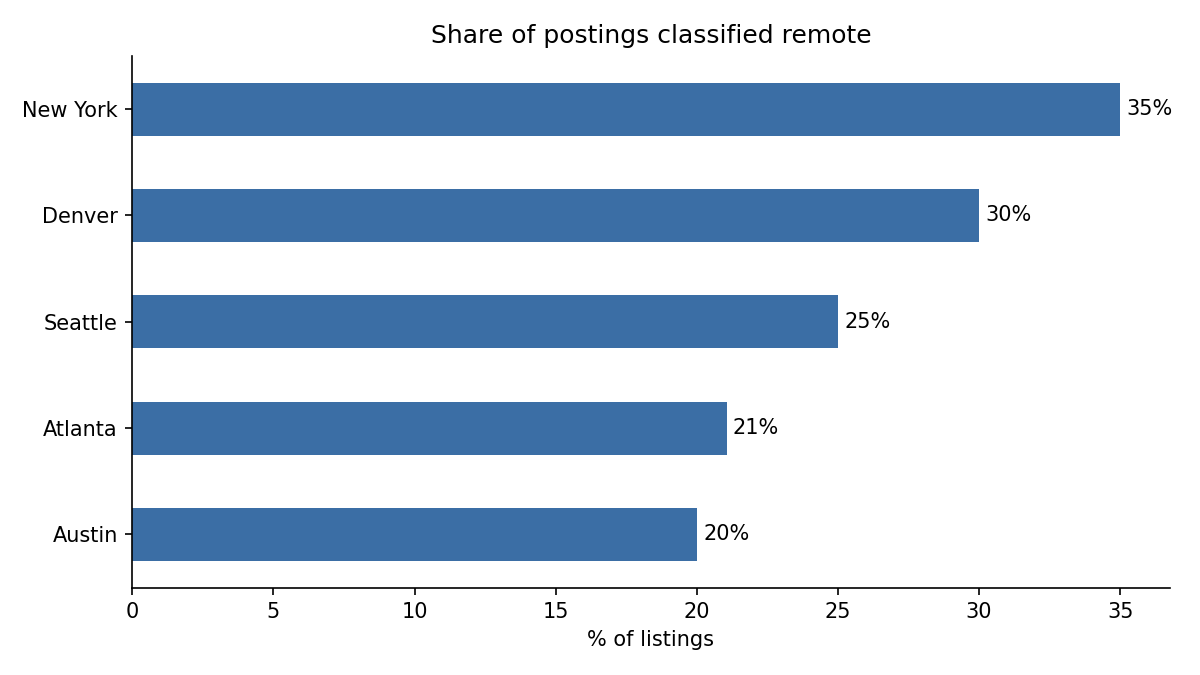
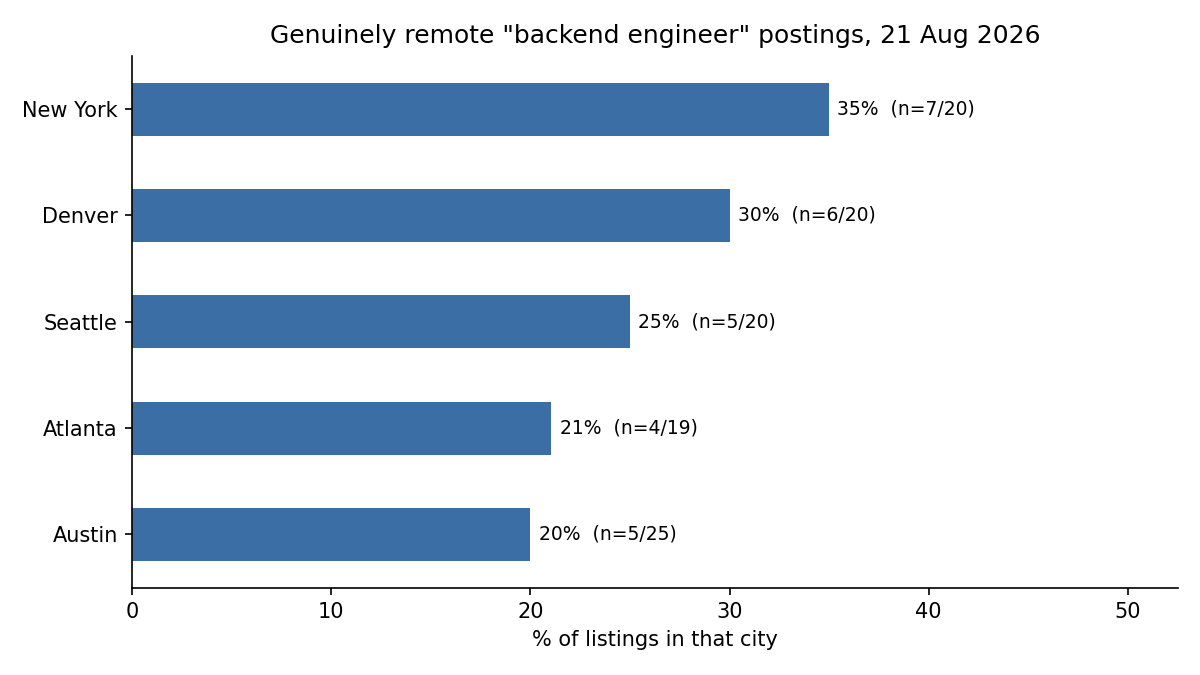
Sync tracker to two-pass salary parser and labeled remote chart.

diff --git a/tracker.py b/tracker.py
@@ -42,6 +42,7 @@ CREATE TABLE IF NOT EXISTS snapshots (
     posted_precision TEXT,
     work_mode       TEXT,
     schedule        TEXT,
+    salary_raw      TEXT,
     salary_min      REAL,
     salary_max      REAL,
     salary_source   TEXT,
@@ -64,6 +65,7 @@ UNIT_DELTA = {
     "month": lambda n: timedelta(days=30 * n),
 }
 
+TAG_RE = re.compile(r"<[^>]+>")
 REMOTE_LOC = re.compile(r"\b(remote|anywhere|work from home|telecommute)\b", re.I)
 HYBRID_HINT = re.compile(
     r"\b(hybrid|"
@@ -73,12 +75,18 @@ HYBRID_HINT = re.compile(
 )
 ONSITE_HINT = re.compile(r"\b(on-?site|in[- ]office|in[- ]person)\b", re.I)
 
-MONEY = r"\$\s?(\d{1,3}(?:,\d{3})*(?:\.\d+)?)\s*([KkMm])?"
+AMOUNT = r"(\d{1,3}(?:,\d{3})*(?:\.\d+)?)\s*([KkMm])?"
 SEPARATOR = r"\s*(?:-|to|\u2013|\u2014)\s*"
 PERIOD = r"(?:\s*(?:per|a|an|/)\s*(hour|hr|year|yr|month|mo|week|wk))?"
 
-SALARY_RANGE = re.compile(MONEY + SEPARATOR + MONEY + PERIOD, re.I)
-SALARY_SINGLE = re.compile(MONEY + PERIOD, re.I)
+FIELD_RANGE = re.compile(r"\$?\s?" + AMOUNT + SEPARATOR + r"\$?\s?" + AMOUNT + PERIOD, re.I)
+FIELD_SINGLE = re.compile(r"\$?\s?" + AMOUNT + PERIOD, re.I)
+DESC_RANGE = re.compile(r"\$\s?" + AMOUNT + SEPARATOR + r"\$?\s?" + AMOUNT + PERIOD, re.I)
+DESC_SINGLE = re.compile(r"\$\s?" + AMOUNT + PERIOD, re.I)
+NON_USD = re.compile(
+    r"[\u00a3\u20ac\u00a5\u20b9]|\b(?:EUR|GBP|CAD|AUD|INR)\b|\b(?:C|A|CA|AU|NZ)\$",
+    re.I,
+)
 
 ANNUALIZE = {
     "hour": 2080,
@@ -98,10 +106,7 @@ def api_key() -> str:
     """Read SEARCHAPI_KEY only when a live request is about to go out."""
     key = os.environ.get("SEARCHAPI_KEY")
     if not key:
-        raise SystemExit(
-            "SEARCHAPI_KEY is not set. In PowerShell: "
-            '$env:SEARCHAPI_KEY = "your_key_here"'
-        )
+        raise SystemExit("Set SEARCHAPI_KEY before fetching.")
     return key
 
 
@@ -110,6 +115,7 @@ def fetch_city(
     location: str,
     max_pages: int = 2,
     pause: float = 1.5,
+    max_retries: int = 2,
 ) -> tuple[list[dict], str | None]:
     """Fetch job listings for one query/location pair. Returns (jobs, location_used)."""
     jobs: list[dict] = []
@@ -137,12 +143,12 @@ def fetch_city(
             break
 
         if resp.status_code == 429:
-            if retries >= 2:
-                print(f"  [{location}] rate limited after retries, giving up")
+            if retries >= max_retries:
+                print(f"  [{location}] still limited after {max_retries} retries, stopping")
                 break
-            print(f"  [{location}] rate limited, backing off 60s")
-            time.sleep(60)
             retries += 1
+            print(f"  [{location}] rate limited, retry {retries} in 60s")
+            time.sleep(60)
             continue
         if resp.status_code != 200:
             print(
@@ -199,7 +205,7 @@ def classify_work_mode(job: dict) -> str:
     """Return one of: remote, hybrid, onsite, unknown."""
     flagged = job.get("detected_extensions", {}).get("work_from_home")
     location = job.get("location") or ""
-    head = (job.get("description") or "")[:2000]
+    head = TAG_RE.sub(" ", job.get("description") or "")[:2000]
 
     location_says_remote = bool(REMOTE_LOC.search(location))
     hybrid = bool(HYBRID_HINT.search(head))
@@ -223,25 +229,18 @@ def _to_number(amount: str, suffix: str | None) -> float:
     return value
 
 
-def parse_salary(job: dict) -> dict:
-    """Extract an annualized salary range. Prefers the structured field."""
-    text = job.get("detected_extensions", {}).get("salary")
-    source = "detected_extensions"
-    if not text:
-        text = (job.get("description") or "")[:4000]
-        source = "description"
-    if not text:
-        return {"salary_min": None, "salary_max": None, "salary_source": None}
-
-    match = SALARY_RANGE.search(text)
+def _extract(
+    text: str, rng: re.Pattern, single: re.Pattern
+) -> tuple[float, float] | None:
+    match = rng.search(text)
     if match:
         low = _to_number(match.group(1), match.group(2))
         high = _to_number(match.group(3), match.group(4))
         period = (match.group(5) or "year").lower()
     else:
-        match = SALARY_SINGLE.search(text)
+        match = single.search(text)
         if not match:
-            return {"salary_min": None, "salary_max": None, "salary_source": None}
+            return None
         low = high = _to_number(match.group(1), match.group(2))
         period = (match.group(3) or "year").lower()
 
@@ -250,9 +249,33 @@ def parse_salary(job: dict) -> dict:
     if low > high:
         low, high = high, low
     if not (10_000 <= low <= 2_000_000):
-        return {"salary_min": None, "salary_max": None, "salary_source": None}
+        return None
+    return low, high
 
-    return {"salary_min": low, "salary_max": high, "salary_source": source}
+
+def parse_salary(job: dict) -> dict:
+    """Annualized salary range from the structured field, falling back to the description."""
+    field = job.get("detected_extensions", {}).get("salary")
+    if field and not NON_USD.search(field):
+        found = _extract(field, FIELD_RANGE, FIELD_SINGLE)
+        if found:
+            return {
+                "salary_min": found[0],
+                "salary_max": found[1],
+                "salary_source": "detected_extensions",
+            }
+
+    description = TAG_RE.sub(" ", job.get("description") or "")[:4000]
+    if description:
+        found = _extract(description, DESC_RANGE, DESC_SINGLE)
+        if found:
+            return {
+                "salary_min": found[0],
+                "salary_max": found[1],
+                "salary_source": "description",
+            }
+
+    return {"salary_min": None, "salary_max": None, "salary_source": None}
 
 
 def job_key(job: dict) -> str:
@@ -268,6 +291,15 @@ def job_key(job: dict) -> str:
         ]
     )
     return "h:" + hashlib.sha1(seed.encode()).hexdigest()[:16]
+
+
+def migrate(conn: sqlite3.Connection) -> None:
+    """CREATE TABLE IF NOT EXISTS skips existing tables, so add columns explicitly."""
+    existing = {row[1] for row in conn.execute("PRAGMA table_info(snapshots)")}
+    for column, decl in [("salary_raw", "TEXT")]:
+        if column not in existing:
+            conn.execute(f"ALTER TABLE snapshots ADD COLUMN {column} {decl}")
+    conn.commit()
 
 
 def save_snapshot(conn: sqlite3.Connection, rows: list[dict]) -> int:
@@ -313,6 +345,7 @@ def normalize_jobs(
             "posted_precision": p[1],
             "work_mode": classify_work_mode(j),
             "schedule": j.get("detected_extensions", {}).get("schedule"),
+            "salary_raw": j.get("detected_extensions", {}).get("salary"),
             "position": j.get("position"),
             **parse_salary(j),
         }
@@ -331,6 +364,7 @@ def run_snapshot(
     snapshot = datetime.now(tz=UTC).date()
     conn = sqlite3.connect(db_path)
     conn.executescript(SCHEMA)
+    migrate(conn)
     written = 0
 
     for city in cities or CITIES:

diff --git a/tests/test_tracker.py b/tests/test_tracker.py
@@ -147,6 +147,14 @@ class ClassifyWorkModeTests(unittest.TestCase):
         )
         self.assertEqual(tracker.classify_work_mode(job), "unknown")
 
+    def test_html_tags_are_stripped_before_window(self):
+        padding = "<p>xxxx</p>" * 180
+        job = sample_job(
+            detected_extensions={"work_from_home": None},
+            description=padding + " you will work onsite with the platform team",
+        )
+        self.assertEqual(tracker.classify_work_mode(job), "onsite")
+
 
 class ParseSalaryTests(unittest.TestCase):
     def test_structured_range(self):
@@ -201,6 +209,13 @@ class ParseSalaryTests(unittest.TestCase):
         job = sample_job(detected_extensions={"salary": "$150K a year"})
         result = tracker.parse_salary(job)
         self.assertEqual(result["salary_min"], 150000)
+
+    def test_unsigned_k_from_structured_field(self):
+        job = sample_job(detected_extensions={"salary": "125K a year"})
+        result = tracker.parse_salary(job)
+        self.assertEqual(result["salary_min"], 125000)
+        self.assertEqual(result["salary_max"], 125000)
+        self.assertEqual(result["salary_source"], "detected_extensions")
 
     def test_swaps_inverted_range(self):
         job = sample_job(detected_extensions={"salary": "$170,000 - $140,000 a year"})
@@ -259,6 +274,24 @@ class SnapshotStoreTests(unittest.TestCase):
         self.assertEqual(row["posted_date"], "2026-08-18")
         self.assertEqual(row["work_mode"], "remote")
         self.assertEqual(row["salary_min"], 150000)
+        self.assertEqual(row["salary_raw"], "$150K a year")
+
+    def test_migrate_adds_salary_raw(self):
+        self.conn.execute("DROP TABLE snapshots")
+        self.conn.executescript(
+            """
+            CREATE TABLE snapshots (
+                snapshot_date TEXT NOT NULL,
+                job_key TEXT NOT NULL,
+                query TEXT NOT NULL,
+                city TEXT NOT NULL,
+                PRIMARY KEY (snapshot_date, city, query, job_key)
+            );
+            """
+        )
+        tracker.migrate(self.conn)
+        cols = {row[1] for row in self.conn.execute("PRAGMA table_info(snapshots)")}
+        self.assertIn("salary_raw", cols)
 
 
 class FetchCityTests(unittest.TestCase):

diff --git a/analyze.py b/analyze.py
@@ -91,22 +91,30 @@ def chart_postings_by_city(
 
 def chart_remote_share(
     df: pd.DataFrame,
+    query: str = QUERY,
     out_path: Path | str | None = None,
 ) -> Path:
     latest = df[df.snapshot_date == df.snapshot_date.max()]
-    share = (
-        latest.assign(is_remote=latest.work_mode.eq("remote"))
-        .groupby("city")["is_remote"]
-        .mean()
-        .mul(100)
-        .sort_values(ascending=True)
+    totals = latest.groupby("city")["job_key"].nunique()
+    remote = (
+        latest[latest.work_mode == "remote"]
+        .groupby("city")["job_key"]
+        .nunique()
+        .reindex(totals.index, fill_value=0)
     )
+    share = (remote / totals * 100).sort_values()
     fig, ax = plt.subplots(figsize=(8, 4.5))
     share.plot.barh(ax=ax, color="#3b6ea5")
-    ax.set_title("Share of postings classified remote")
-    ax.set_xlabel("% of listings")
+    ax.bar_label(
+        ax.containers[0],
+        labels=[f"{share[c]:.0f}%  (n={int(remote[c])}/{int(totals[c])})" for c in share.index],
+        padding=4,
+        fontsize=9,
+    )
+    ax.set_xlim(0, max(share.max() * 1.5, 10))
+    ax.set_title(f'Genuinely remote "{query}" postings, {latest.snapshot_date.max():%d %b %Y}')
+    ax.set_xlabel("% of listings in that city")
     ax.set_ylabel("")
-    ax.bar_label(ax.containers[0], fmt="%.0f%%", padding=3)
     ax.spines[["top", "right"]].set_visible(False)
     fig.tight_layout()
     path = Path(out_path) if out_path else IMAGES / "remote_share.png"
